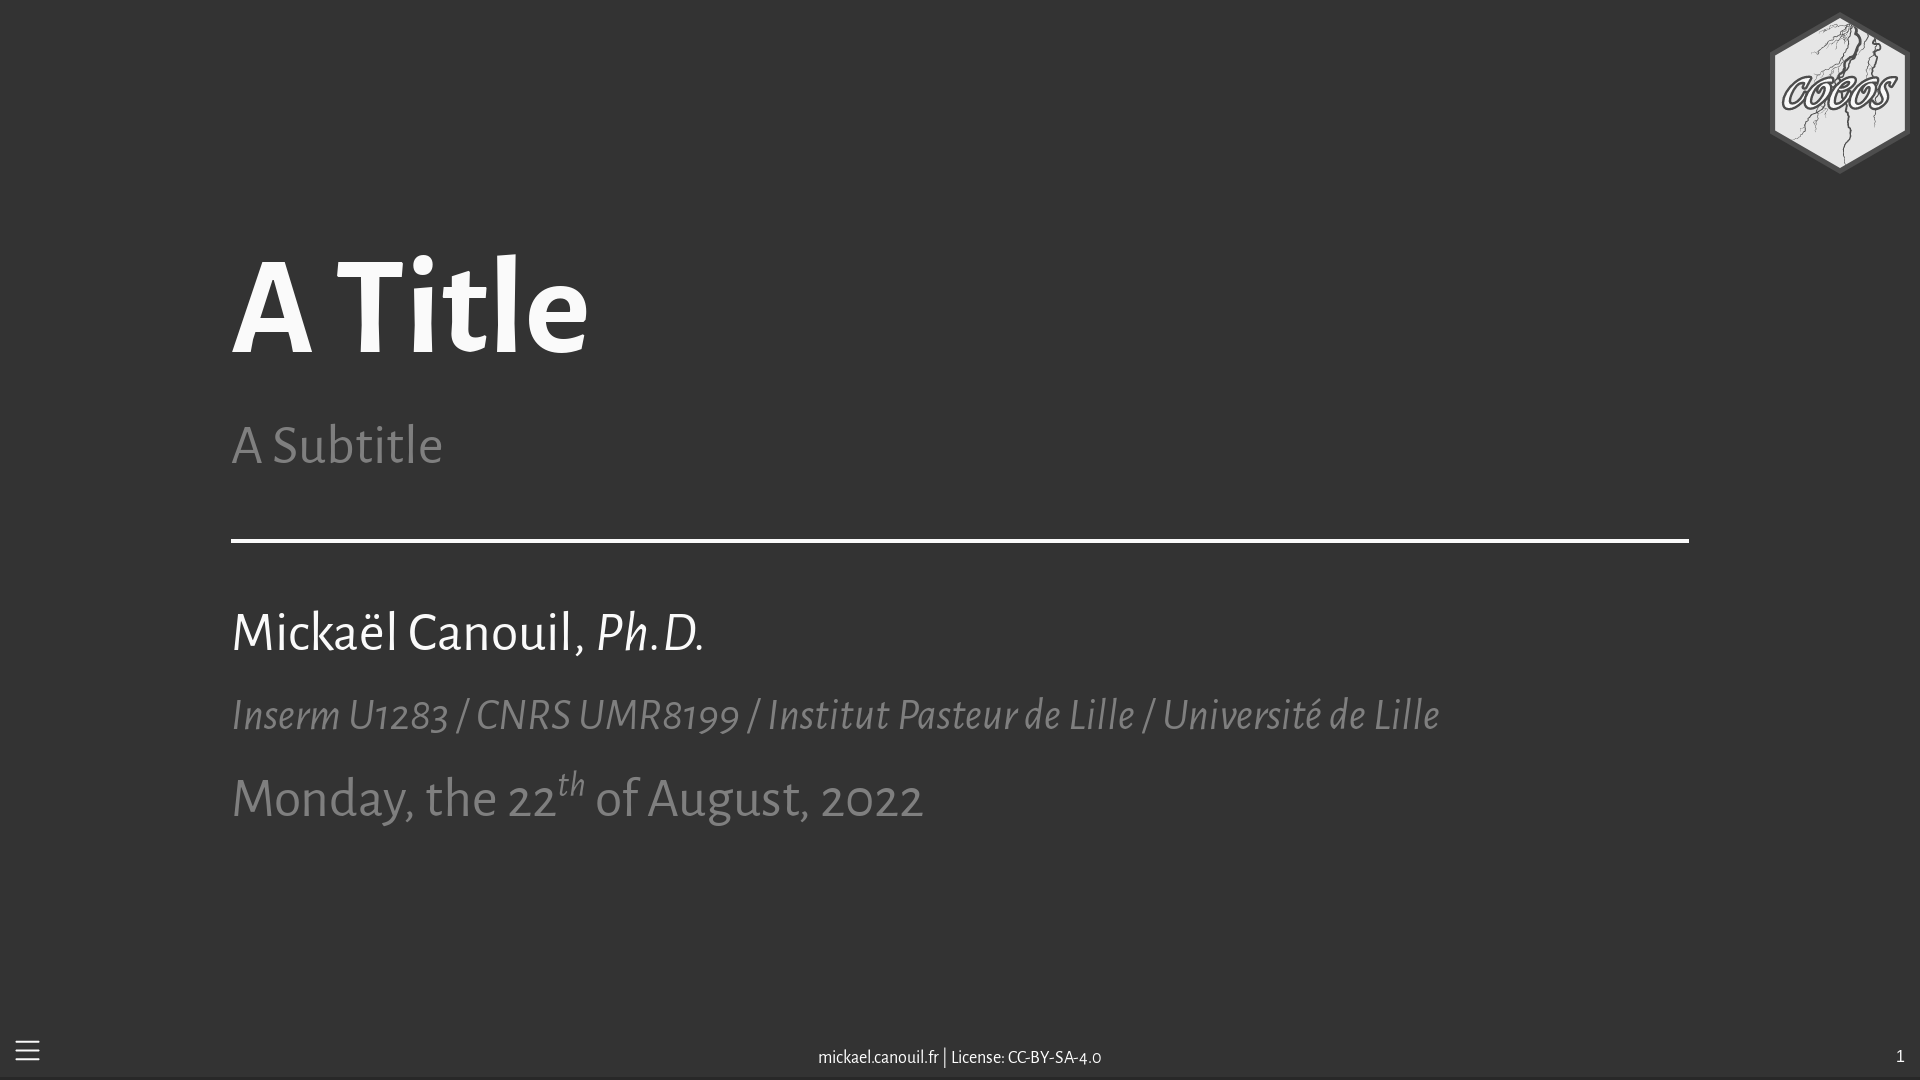
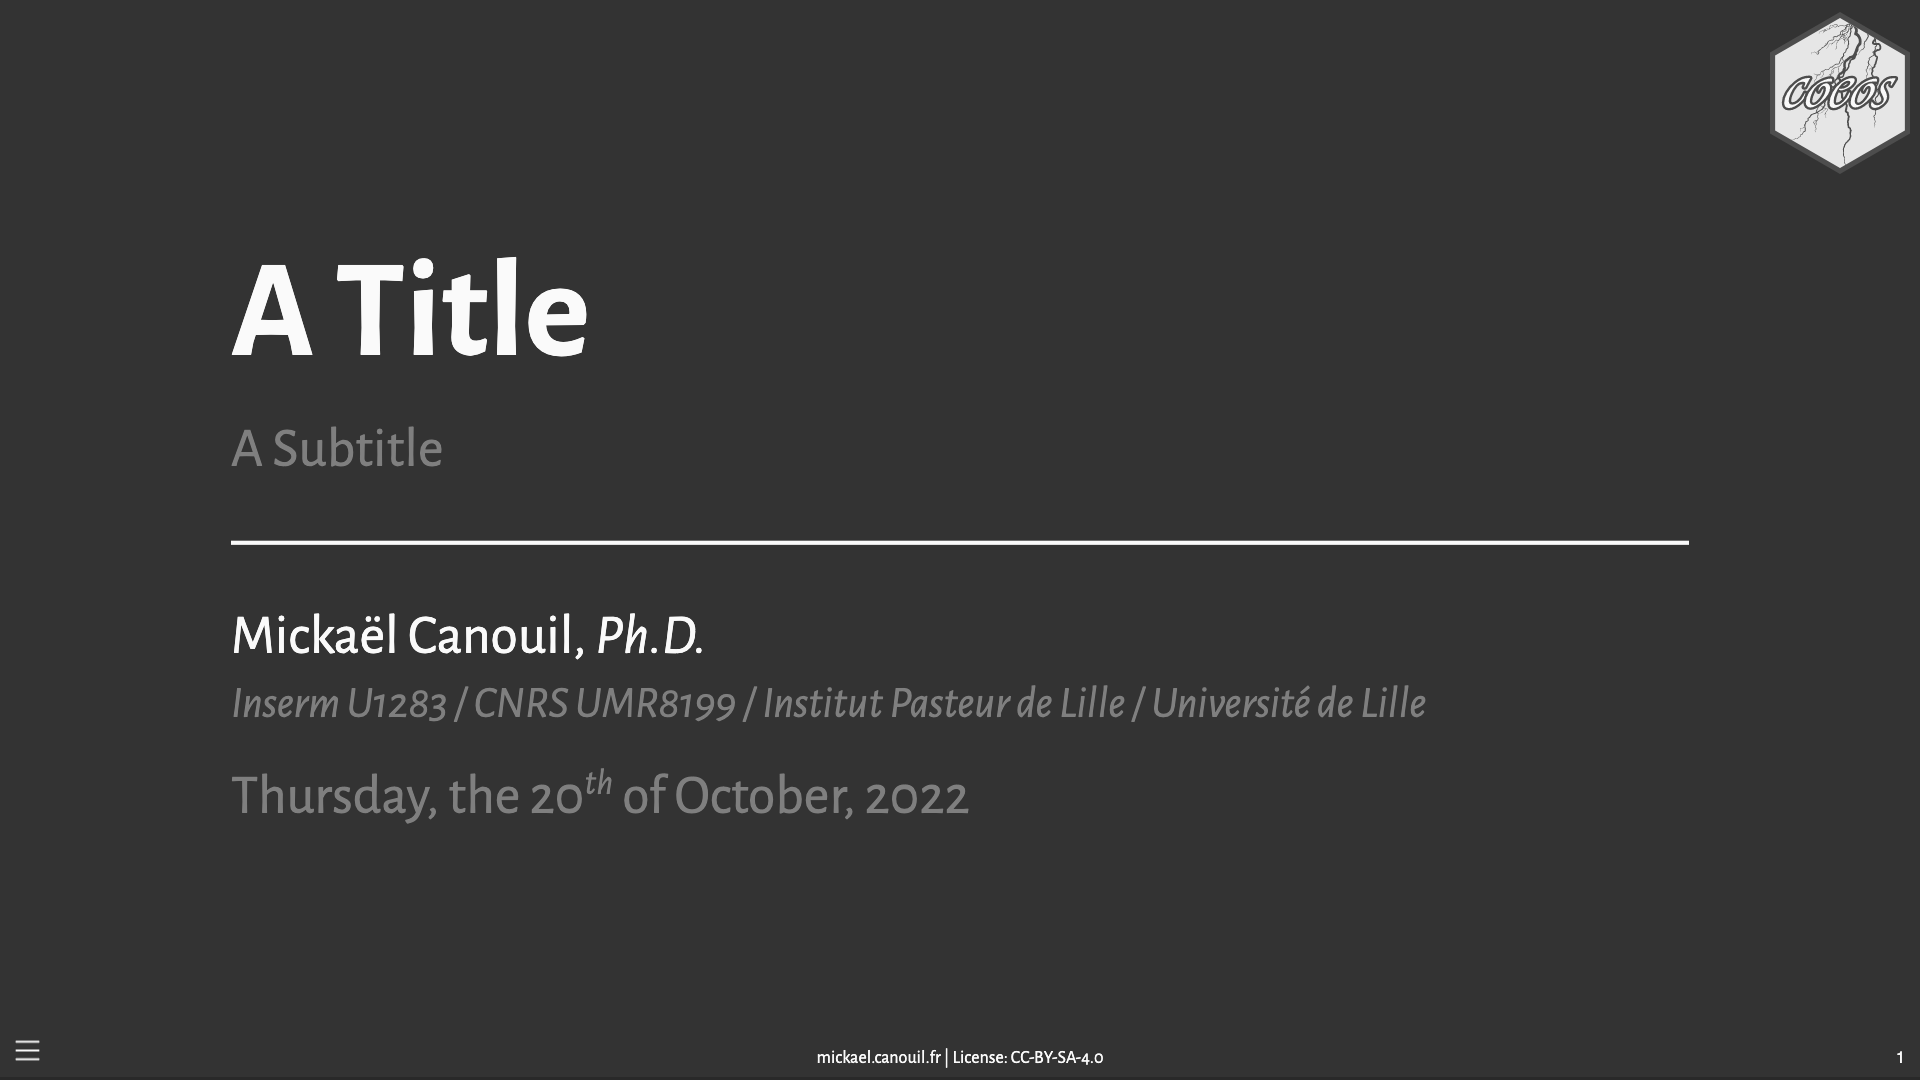
fix: update for quarto v1.2

diff --git a/_extensions/coeos/coeos.scss b/_extensions/coeos/coeos.scss
@@ -35,16 +35,27 @@ $code-block-border-color: $body-color !default;
   text-align: left;
 }
 
-#title-slide .institute {
+#title-slide .institute, #title-slide .quarto-title-affiliation {
   font-style: italic;
   font-size: 80%;
 }
 
-#title-slide .author {
+#title-slide .author, #title-slide .quarto-title-author-name {
   color: $body-color;
 }
 
-#title-slide p.author::before {
+#title-slide .quarto-title-authors {
+  display: flex;
+  justify-content: left;
+
+  .quarto-title-author {
+    padding-left: 0em;
+    padding-right: 0em;
+    width: 100%;
+  }
+}
+
+#title-slide p.author::before, #title-slide div.quarto-title-author::before {
   content: "";
   display: block;
   border: none;
@@ -97,4 +108,13 @@ code.sourceCode > span {
 
 .center-x {
   text-align: center;
+}
+
+.center-xy {
+  margin: 0;
+  position: absolute;
+  top: 50%;
+  left: 50%;
+  -ms-transform: translateY(-50%), translateX(-50%);
+  transform: translateY(-50%), translateX(-50%);
 }
